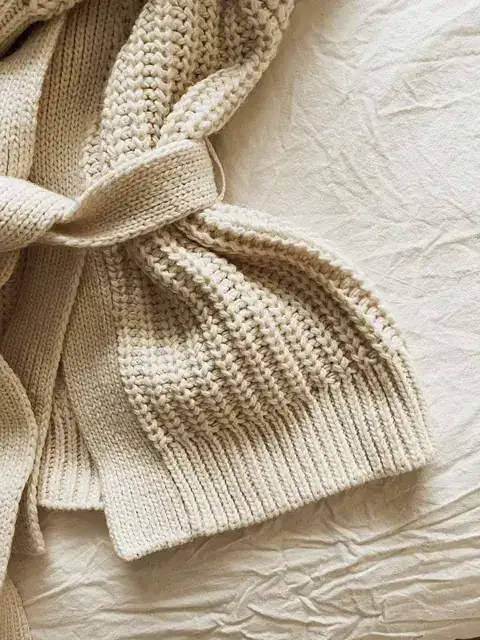
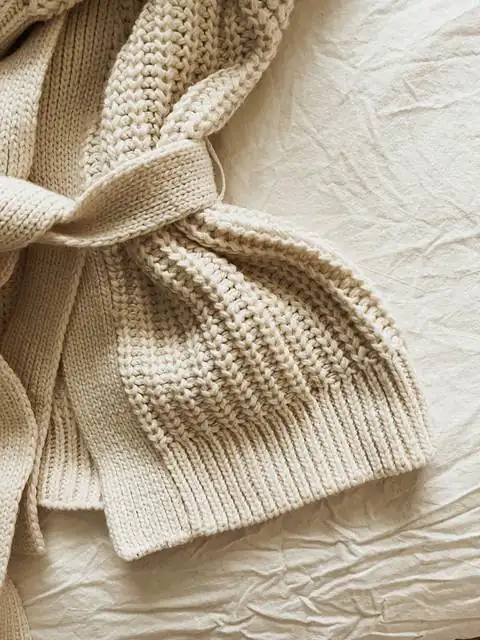
butik: JS kapaliyken gizli kalan iz animasyonu icin noscript, sepet WhatsApp copy duzeltmesi, mira-orgu-bluz kucuk webp sikistirma
Insan turunda bulunan gercek hatalar:
- .iz opacity:0 CSS deseni JS kapaliyken (GSAP/animasyon bloklu) icerigi
  kalici gizli birakiyordu (prefers-reduced-motion icin fallback vardi ama
  JS-kapali icin yoktu). 11 HTML sayfasina <noscript><style>.iz{opacity:1}
  fallback eklendi, JS-kapali testte 0/0 gizli .iz elemani dogrulandi.
- sepet.html hem meta description hem gorunur H1 alti metninde hala
  "WhatsApp uzerinden yazisarak" diyordu; WhatsApp yolu 03.09 duzeltmesinde
  kaldirilmisti, gercek ikinci yol e-postaydi. Metin e-posta ile guncellendi.
- mira-orgu-bluz-ana-480.webp anormal buyuktu (53.8KB, dokusal goruntu),
  method=6 + q58 ile 43.6KB'a indirildi, gorsel kalite farki yok.

diff --git a/vitrin/vitrin-11-butik-kadin/sepet.html b/vitrin/vitrin-11-butik-kadin/sepet.html
@@ -4,7 +4,7 @@
 <meta charset="utf-8">
 <meta name="viewport" content="width=device-width, initial-scale=1">
 <title>Sepetim — Atölye Butik</title>
-<meta name="description" content="Atölye Butik sepetiniz: adet değiştirin, toplamı görün ve siparişinizi WhatsApp'tan ya da kartla tamamlayın.">
+<meta name="description" content="Atölye Butik sepetiniz: adet değiştirin, toplamı görün ve siparişinizi e-posta ile ya da kartla tamamlayın.">
 <meta name="theme-color" content="#faf7f2">
 <meta name="robots" content="noindex">
 <link rel="canonical" href="https://ironvisiontools.com/vitrin/vitrin-11-butik-kadin/sepet.html">
@@ -19,6 +19,7 @@
 <meta name="twitter:image" content="https://ironvisiontools.com/vitrin/vitrin-11-butik-kadin/assets/og-kapak.jpg">
 <link rel="icon" href="assets/favicon.svg" type="image/svg+xml">
 <link rel="stylesheet" href="css/style.css">
+<noscript><style>.iz{opacity:1!important;transform:none!important}</style></noscript>
 </head>
 <body>
 
@@ -57,7 +58,7 @@
         <a href="./">Ana Sayfa</a><span aria-hidden="true">/</span>Sepetim
       </nav>
       <h1>Sepetim</h1>
-      <p>Siparişinizi WhatsApp üzerinden yazışarak ya da kartla ödeyerek tamamlayabilirsiniz. İki yol da aynı sepeti kullanır.</p>
+      <p>Siparişinizi e-posta ile yazışarak ya da kartla ödeyerek tamamlayabilirsiniz. İki yol da aynı sepeti kullanır.</p>
     </div>
   </div>
 

diff --git a/vitrin/vitrin-11-butik-kadin/index.html b/vitrin/vitrin-11-butik-kadin/index.html
@@ -20,6 +20,7 @@
 <link rel="preload" href="fonts/cormorant-latin.woff2" as="font" type="font/woff2" crossorigin>
 <link rel="preload" href="fonts/sourcesans3-latin.woff2" as="font" type="font/woff2" crossorigin>
 <link rel="stylesheet" href="css/style.css">
+<noscript><style>.iz{opacity:1!important;transform:none!important}</style></noscript>
 <script>
 // Kanonik URL düzeltmesi: /index.html vs / URL'lerine göre canonical'ı ayarla
 // .htaccess'te RedirectMatch 301 ile /index.html → / yönlendirmesi kurulu

diff --git a/vitrin/vitrin-11-butik-kadin/cerez-politikasi.html b/vitrin/vitrin-11-butik-kadin/cerez-politikasi.html
@@ -19,6 +19,7 @@
 <meta name="twitter:image" content="https://ironvisiontools.com/vitrin/vitrin-11-butik-kadin/assets/og-kapak.jpg">
 <link rel="icon" href="assets/favicon.svg" type="image/svg+xml">
 <link rel="stylesheet" href="css/style.css">
+<noscript><style>.iz{opacity:1!important;transform:none!important}</style></noscript>
 </head>
 <body>
 

diff --git a/vitrin/vitrin-11-butik-kadin/gizlilik.html b/vitrin/vitrin-11-butik-kadin/gizlilik.html
@@ -19,6 +19,7 @@
 <meta name="twitter:image" content="https://ironvisiontools.com/vitrin/vitrin-11-butik-kadin/assets/og-kapak.jpg">
 <link rel="icon" href="assets/favicon.svg" type="image/svg+xml">
 <link rel="stylesheet" href="css/style.css">
+<noscript><style>.iz{opacity:1!important;transform:none!important}</style></noscript>
 </head>
 <body>
 

diff --git a/vitrin/vitrin-11-butik-kadin/koleksiyon.html b/vitrin/vitrin-11-butik-kadin/koleksiyon.html
@@ -18,6 +18,7 @@
 <meta name="twitter:image" content="https://ironvisiontools.com/vitrin/vitrin-11-butik-kadin/assets/og-kapak.jpg">
 <link rel="icon" href="assets/favicon.svg" type="image/svg+xml">
 <link rel="stylesheet" href="css/style.css">
+<noscript><style>.iz{opacity:1!important;transform:none!important}</style></noscript>
 </head>
 <body>
 

diff --git a/vitrin/vitrin-11-butik-kadin/mesafeli-satis.html b/vitrin/vitrin-11-butik-kadin/mesafeli-satis.html
@@ -19,6 +19,7 @@
 <meta name="twitter:image" content="https://ironvisiontools.com/vitrin/vitrin-11-butik-kadin/assets/og-kapak.jpg">
 <link rel="icon" href="assets/favicon.svg" type="image/svg+xml">
 <link rel="stylesheet" href="css/style.css">
+<noscript><style>.iz{opacity:1!important;transform:none!important}</style></noscript>
 </head>
 <body>
 

diff --git a/vitrin/vitrin-11-butik-kadin/odeme.html b/vitrin/vitrin-11-butik-kadin/odeme.html
@@ -19,6 +19,7 @@
 <meta name="twitter:image" content="https://ironvisiontools.com/vitrin/vitrin-11-butik-kadin/assets/og-kapak.jpg">
 <link rel="icon" href="assets/favicon.svg" type="image/svg+xml">
 <link rel="stylesheet" href="css/style.css">
+<noscript><style>.iz{opacity:1!important;transform:none!important}</style></noscript>
 </head>
 <body>
 

diff --git a/vitrin/vitrin-11-butik-kadin/on-bilgilendirme.html b/vitrin/vitrin-11-butik-kadin/on-bilgilendirme.html
@@ -19,6 +19,7 @@
 <meta name="twitter:image" content="https://ironvisiontools.com/vitrin/vitrin-11-butik-kadin/assets/og-kapak.jpg">
 <link rel="icon" href="assets/favicon.svg" type="image/svg+xml">
 <link rel="stylesheet" href="css/style.css">
+<noscript><style>.iz{opacity:1!important;transform:none!important}</style></noscript>
 </head>
 <body>
 

diff --git a/vitrin/vitrin-11-butik-kadin/rehber.html b/vitrin/vitrin-11-butik-kadin/rehber.html
@@ -18,6 +18,7 @@
 <meta name="twitter:image" content="https://ironvisiontools.com/vitrin/vitrin-11-butik-kadin/assets/og-kapak.jpg">
 <link rel="icon" href="assets/favicon.svg" type="image/svg+xml">
 <link rel="stylesheet" href="css/style.css">
+<noscript><style>.iz{opacity:1!important;transform:none!important}</style></noscript>
 </head>
 <body>
 

diff --git a/vitrin/vitrin-11-butik-kadin/tesekkur.html b/vitrin/vitrin-11-butik-kadin/tesekkur.html
@@ -19,6 +19,7 @@
 <meta name="twitter:image" content="https://ironvisiontools.com/vitrin/vitrin-11-butik-kadin/assets/og-kapak.jpg">
 <link rel="icon" href="assets/favicon.svg" type="image/svg+xml">
 <link rel="stylesheet" href="css/style.css">
+<noscript><style>.iz{opacity:1!important;transform:none!important}</style></noscript>
 </head>
 <body>
 

diff --git a/vitrin/vitrin-11-butik-kadin/urun.html b/vitrin/vitrin-11-butik-kadin/urun.html
@@ -18,6 +18,7 @@
 <meta name="twitter:image" content="https://ironvisiontools.com/vitrin/vitrin-11-butik-kadin/assets/og-kapak.jpg">
 <link rel="icon" href="assets/favicon.svg" type="image/svg+xml">
 <link rel="stylesheet" href="css/style.css">
+<noscript><style>.iz{opacity:1!important;transform:none!important}</style></noscript>
 </head>
 <body>
 
